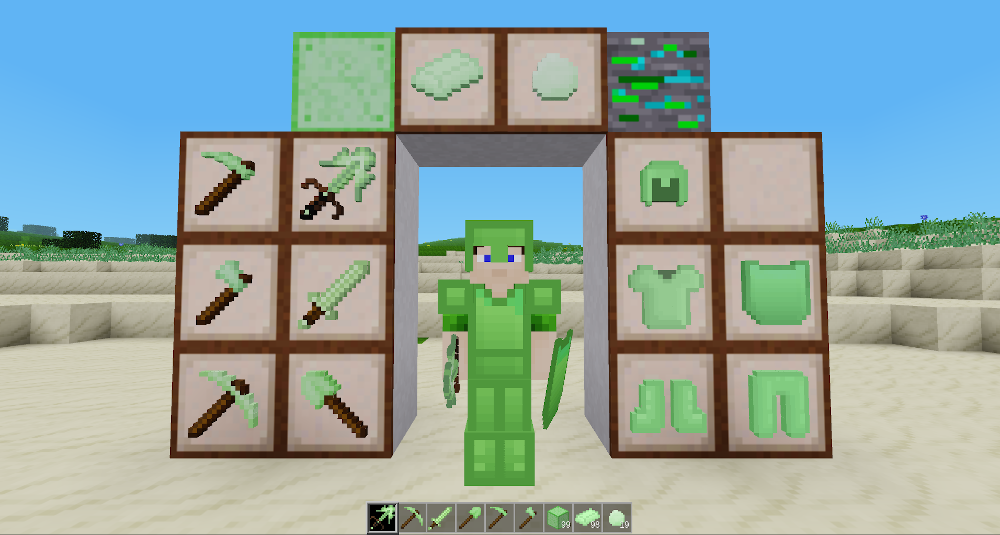
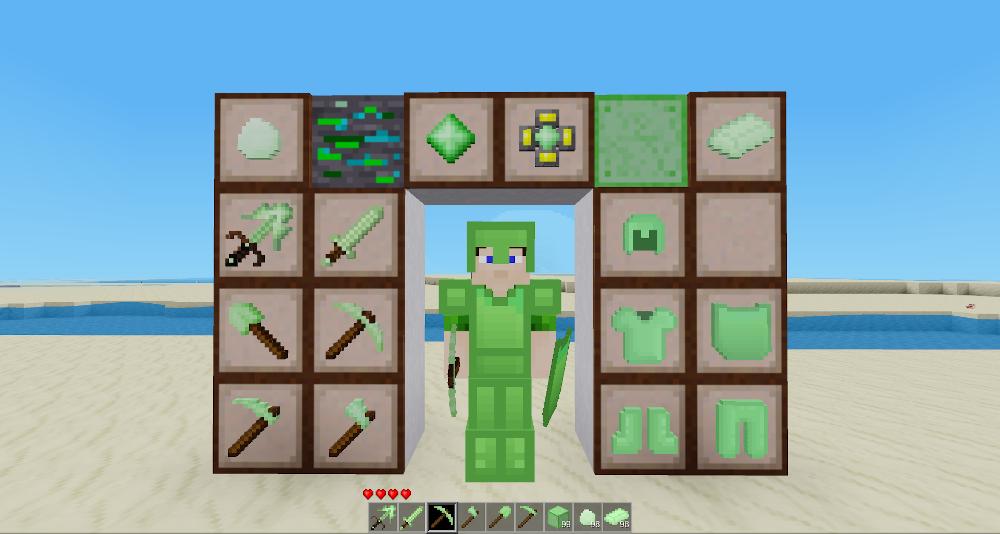
added radiation effects and gems

diff --git a/readme.md b/readme.md
@@ -8,6 +8,10 @@ Have you ever wondered what to do with your waste 0% uranium?
 Worry no more! Now you can use it to make tools and armor.  
 Tools are fast and deal a lot of damage, armor also provides radiation protection.  
 
+__NEW ADDITIONS__
+ * Tools will now irradiate mobs to drain their health over time.
+ * Armor will drain your health if the "Uranium Protection Gem" is not in your inventory.
+
 If the technic mod is not present, this mod will provide uranium ore generation.  
 Uranium ore will be found at the same heights as with technic, but at much lower quantities,  
 to compensate for the lack of need for centrifuging.  
@@ -26,6 +30,10 @@ Uranium Leggings
 Uranium Boots  
 Uranium Helmet  
 Uranium Shield  
+
+__Special items__
+Uranium Gem
+Uranium Protection Gem
 
 
 __Textures adapted from the following mods__  
